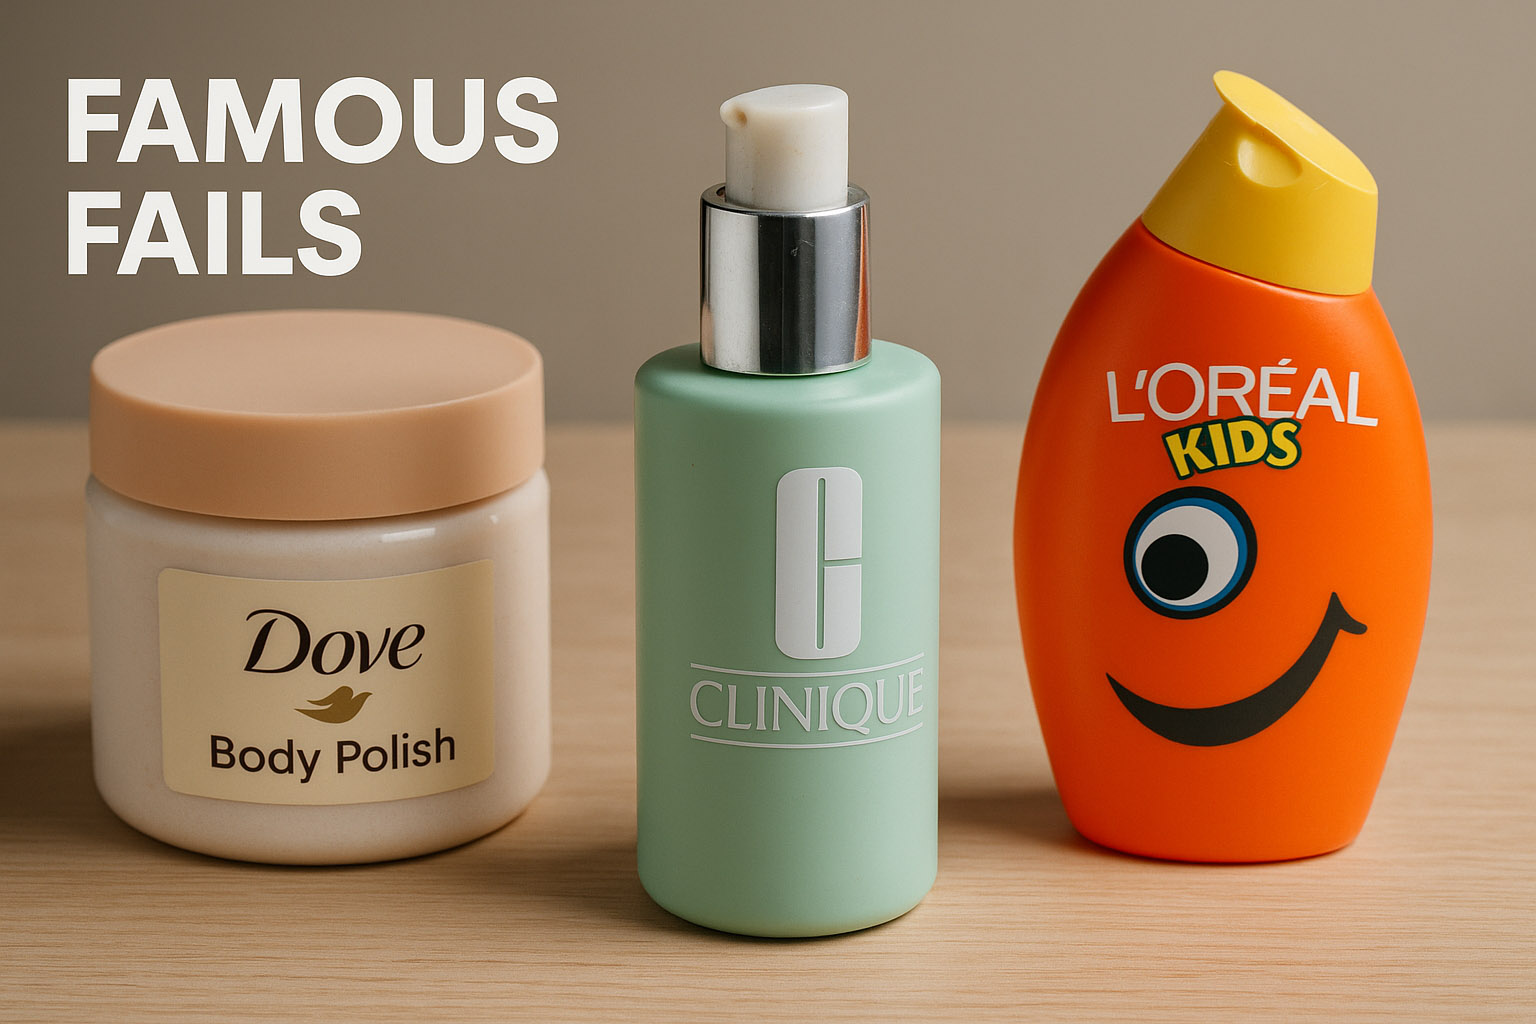
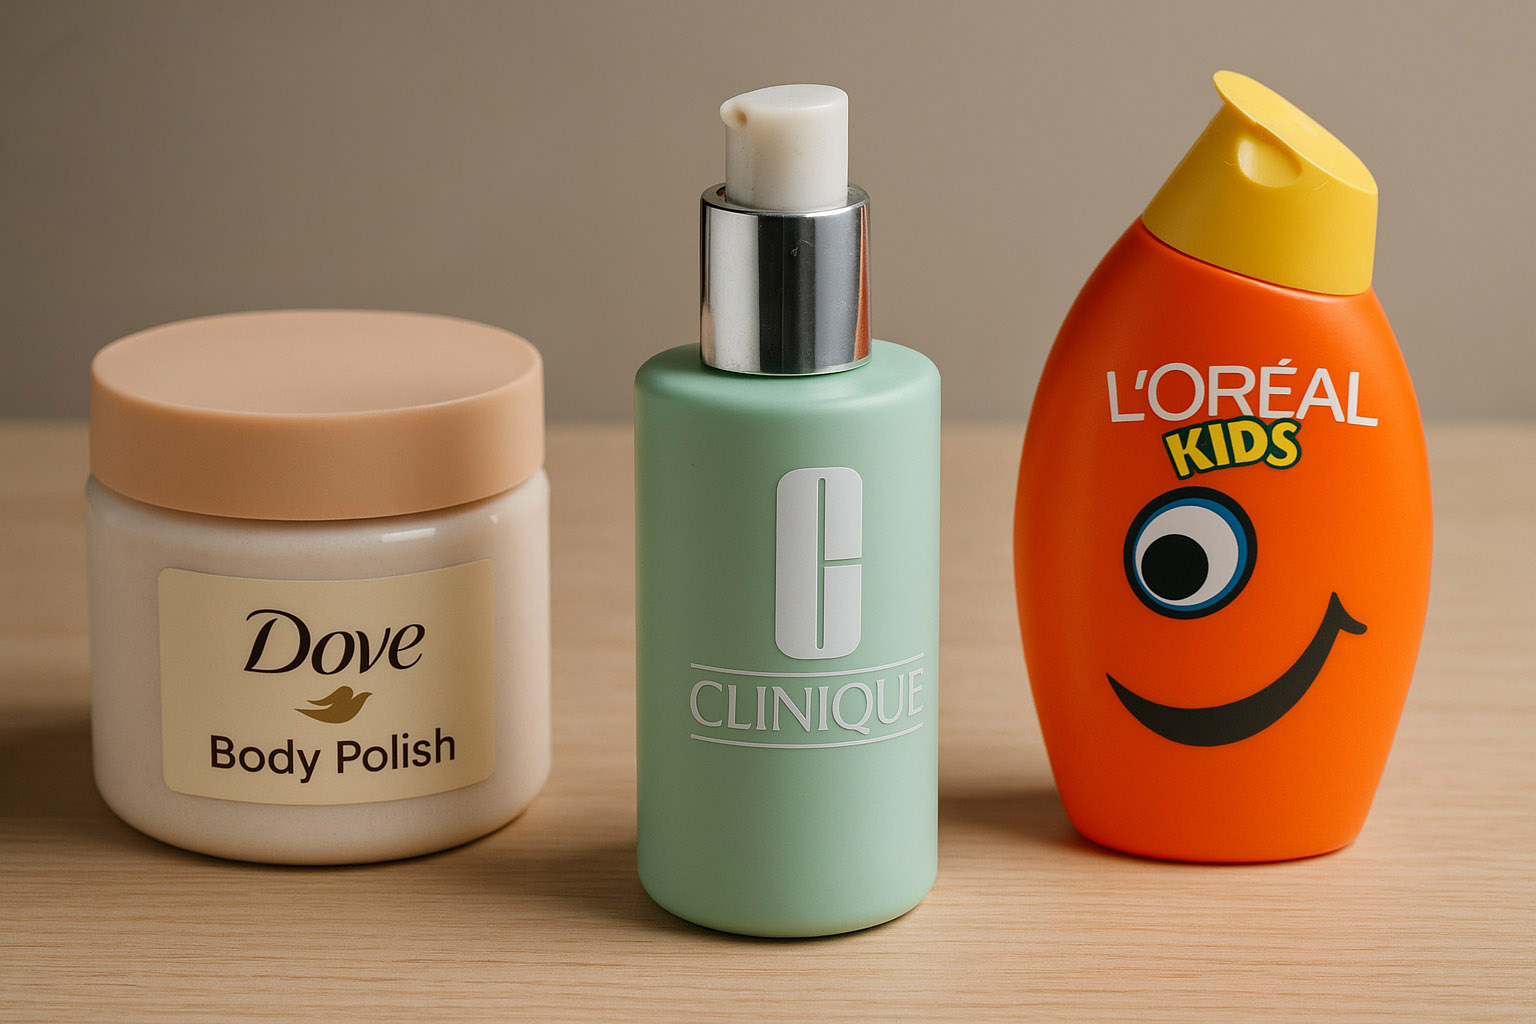
new article - from sketch to bathroom helves - and some fixes

Changed region(s): [[0.0312, 0.0625, 0.375, 0.1562], [0.0312, 0.1875, 0.25, 0.2812]]

diff --git a/content/blog/from-sketch-to-bathroom-shelves.md b/content/blog/from-sketch-to-bathroom-shelves.md
@@ -73,7 +73,7 @@ Packaging design is usually **10–15% of the product launch budget**, but its v
 
 A single misstep — like **poor ergonomics** or **unreadable typography in the shower** — can cost millions in lost customer trust.
 
----
+
 
 ### 🌿 Materials & Sustainability
 
@@ -89,7 +89,9 @@ Brands like **Lush**, **The Ordinary**, and **Fenty Beauty** are pushing new mat
 
 Unknown fact: Many high-end brands use **double-wall bottles** — not for function, but to make the product *look more expensive* while holding less actual formula.
 
----
+
+{{< fullimg src="/images/articles/from-sketch-to-bathroom-shelves/from-sketch-to-bathroom-shelves-4.jpg" alt="modern cosmetic packaging materials and sustainability" >}}
+
 
 ### 🧪 Testing & Regulations
 
@@ -101,7 +103,10 @@ Before any product reaches the shelf, the **packaging itself is tested**:
 
 A 2022 study found that **40% of consumer complaints** in cosmetics are linked not to formula, but to **packaging usability** — from pumps clogging to caps breaking.
 
----
+{{< halves >}}
+{{< halfimg src="/images/articles/from-sketch-to-bathroom-shelves/from-sketch-to-bathroom-shelves-5.jpg" alt="cosmetic product testing and regulations" >}}
+{{< /halves >}}
+
 
 ### Design Legends in Cosmetics
 
@@ -112,7 +117,10 @@ A 2022 study found that **40% of consumer complaints** in cosmetics are linked n
 
 Hidden gem: In the 1980s, Estée Lauder used **real gold dust** in some limited-edition perfume bottles — later discontinued due to cost and ethical concerns.
 
----
+
+{{< fullimg src="/images/articles/from-sketch-to-bathroom-shelves/from-sketch-to-bathroom-shelves-6.jpg" alt="Design Legends in Cosmetics" >}}
+
+
 
 ### Famous Fails
 
@@ -120,7 +128,9 @@ Hidden gem: In the 1980s, Estée Lauder used **real gold dust** in some limited-
 - **Clinique’s 1990s Airless Pumps**: Beautiful concept, but clogged constantly due to formula incompatibility.
 - **L’Oréal Kids Shampoo (1998)**: Famous for the “no tears” frog bottle — but its bright color and cartoon-like shape caused some toddlers to drink it. The design had to be changed for safety reasons.
 
----
+
+{{< fullimg src="/images/articles/from-sketch-to-bathroom-shelves/from-sketch-to-bathroom-shelves-7.jpg" alt="Famous Fails in Cosmetics" >}}
+
 
 ### 🚀 The Indie Revolution
 
@@ -130,7 +140,9 @@ Micro-batch lines like **By Humankind** and **Wild Refill** use **modular refill
 
 A new niche is emerging — **"slow packaging"**, where brands update visuals every few years instead of chasing trends. Think of it as the “capsule wardrobe” of cosmetic design.
 
----
+{{< halves >}}
+{{< halfimg src="/images/articles/from-sketch-to-bathroom-shelves/from-sketch-to-bathroom-shelves-8.jpg" alt="The Indie Revolution in Cosmetics" >}}
+{{< /halves >}}
 
 ### The Hidden Truth
 
@@ -139,7 +151,7 @@ That’s why some brands secretly redesign bottles mid-cycle — same look, slig
 
 In many agencies, **the packaging designer is one of the first and last people** to touch a cosmetic product before launch — bridging marketing, engineering, and emotion.
 
----
+{{< fullimg src="/images/articles/from-sketch-to-bathroom-shelves/from-sketch-to-bathroom-shelves-9.jpg" alt="The Hidden Truth about Cosmetics" >}}
 
 ### Conclusion
 
